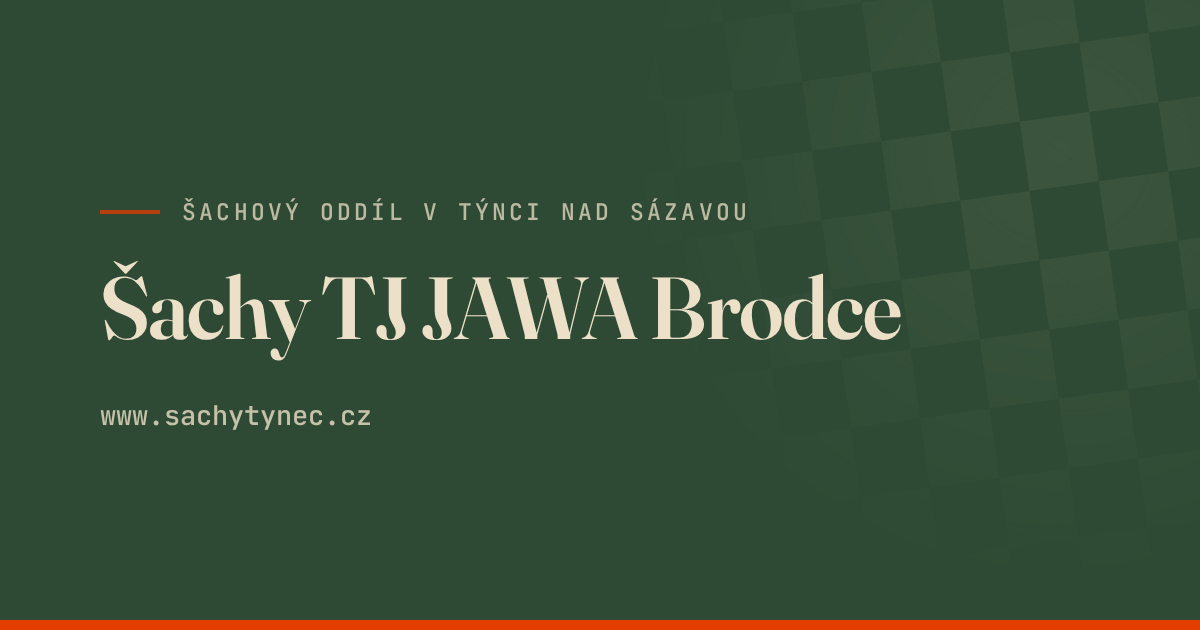
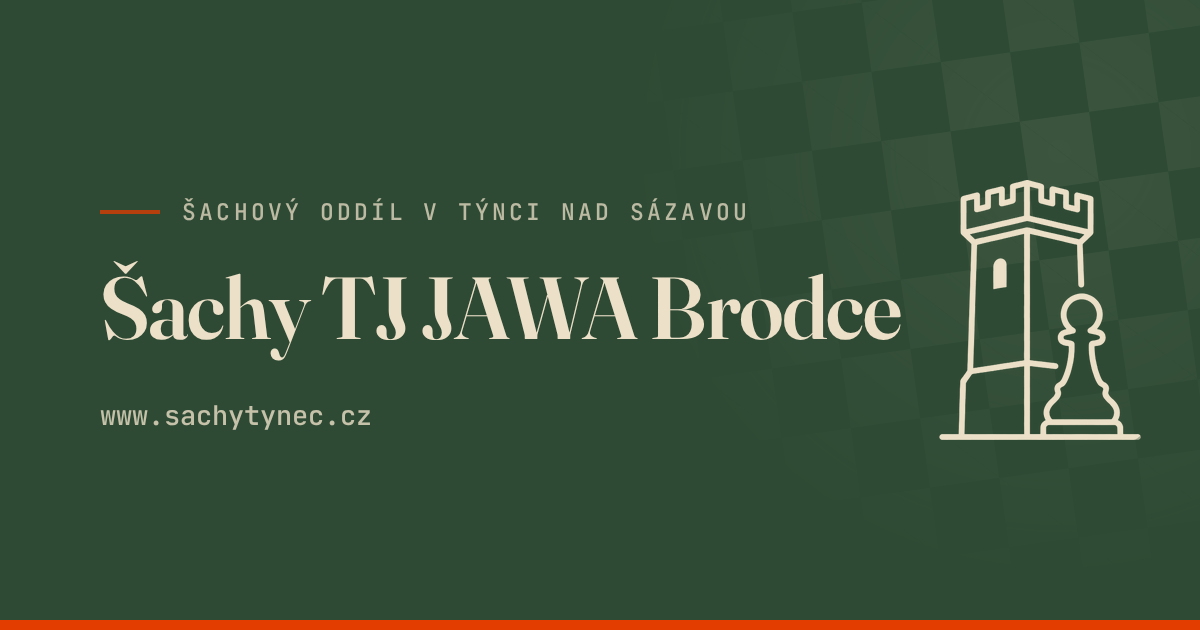
Jednotná značka: kresba věže v hero, faviconě, logu i náhledu
- úvodní stránka: kresba vpravo vedle titulku a perexu, pod 48rem se skládá pod text
- favicona z tns_hrad_solo.png – favicon.ico (16/32/48 px), favicon-96.png, apple-touch-icon.png
- logo v hlavičce a nahled.png sjednocené na stejný motiv, staré SVG odstraněna
- z obou nahraných PNG odstraněna zapečená šachovnice, kresba má skutečnou průhlednost

Changed region(s): [[0.7708, 0.2714, 0.9558, 0.7238]]

diff --git a/src/styles/global.css b/src/styles/global.css
@@ -301,6 +301,25 @@ main {
 	margin-bottom: 0.4em;
 }
 
+/* Domovský hero: titulek a perex vlevo, kresba věže vpravo. */
+.hero__mrizka {
+	display: grid;
+	grid-template-columns: minmax(0, 1fr) minmax(0, 20rem);
+	align-items: center;
+	gap: clamp(1.5rem, 1rem + 3vw, 3.5rem);
+}
+
+.hero__obrazek {
+	width: 100%;
+	height: auto;
+	justify-self: end;
+}
+
+/* Vedle kresby by dekorativní šachovnice v rohu už jen rušila. */
+.hero--obrazek::after {
+	display: none;
+}
+
 .perex {
 	font-size: clamp(1.05rem, 1rem + 0.4vw, 1.25rem);
 	line-height: 1.55;
@@ -808,6 +827,19 @@ main {
 }
 
 /* ------------------------------------------------------------- responzív -- */
+
+/* Na užší obrazovce se kresba přesune pod text. */
+@media (max-width: 48rem) {
+	.hero__mrizka {
+		grid-template-columns: minmax(0, 1fr);
+		gap: 2rem;
+	}
+
+	.hero__obrazek {
+		justify-self: start;
+		max-width: 15rem;
+	}
+}
 
 @media (max-width: 34rem) {
 	.hlavicka__obal {

diff --git a/README.md b/README.md
@@ -55,7 +55,9 @@ npm run check     # zkontroluje, jestli v obsahu nechybí povinné pole
 | Družstva podle ročníků | `src/content/druzstva/*.md` |
 | Kontaktní osoby | `src/content/kontakty/*.md` |
 | Adresa herny, e-mail, odkazy v patičce | `src/data/nastaveni.json` |
-| Logo a favicona | `public/logo.svg`, `public/favicon.svg` |
+| Logo v hlavičce | `public/logo.png` (kreslené ve 120 px, zobrazuje se ve 40 px) |
+| Favicona (ikona v záložce prohlížeče) | `public/favicon.ico`, `public/favicon-96.png`, `public/apple-touch-icon.png` |
+| Kresba vedle titulku na úvodní stránce | `public/media/tns_hrad_kopec.png` |
 | Obrázek při sdílení odkazu | `public/nahled.png` (1200 × 630 px) |
 | Barvy, písma, vzhled | `src/styles/global.css` |
 
